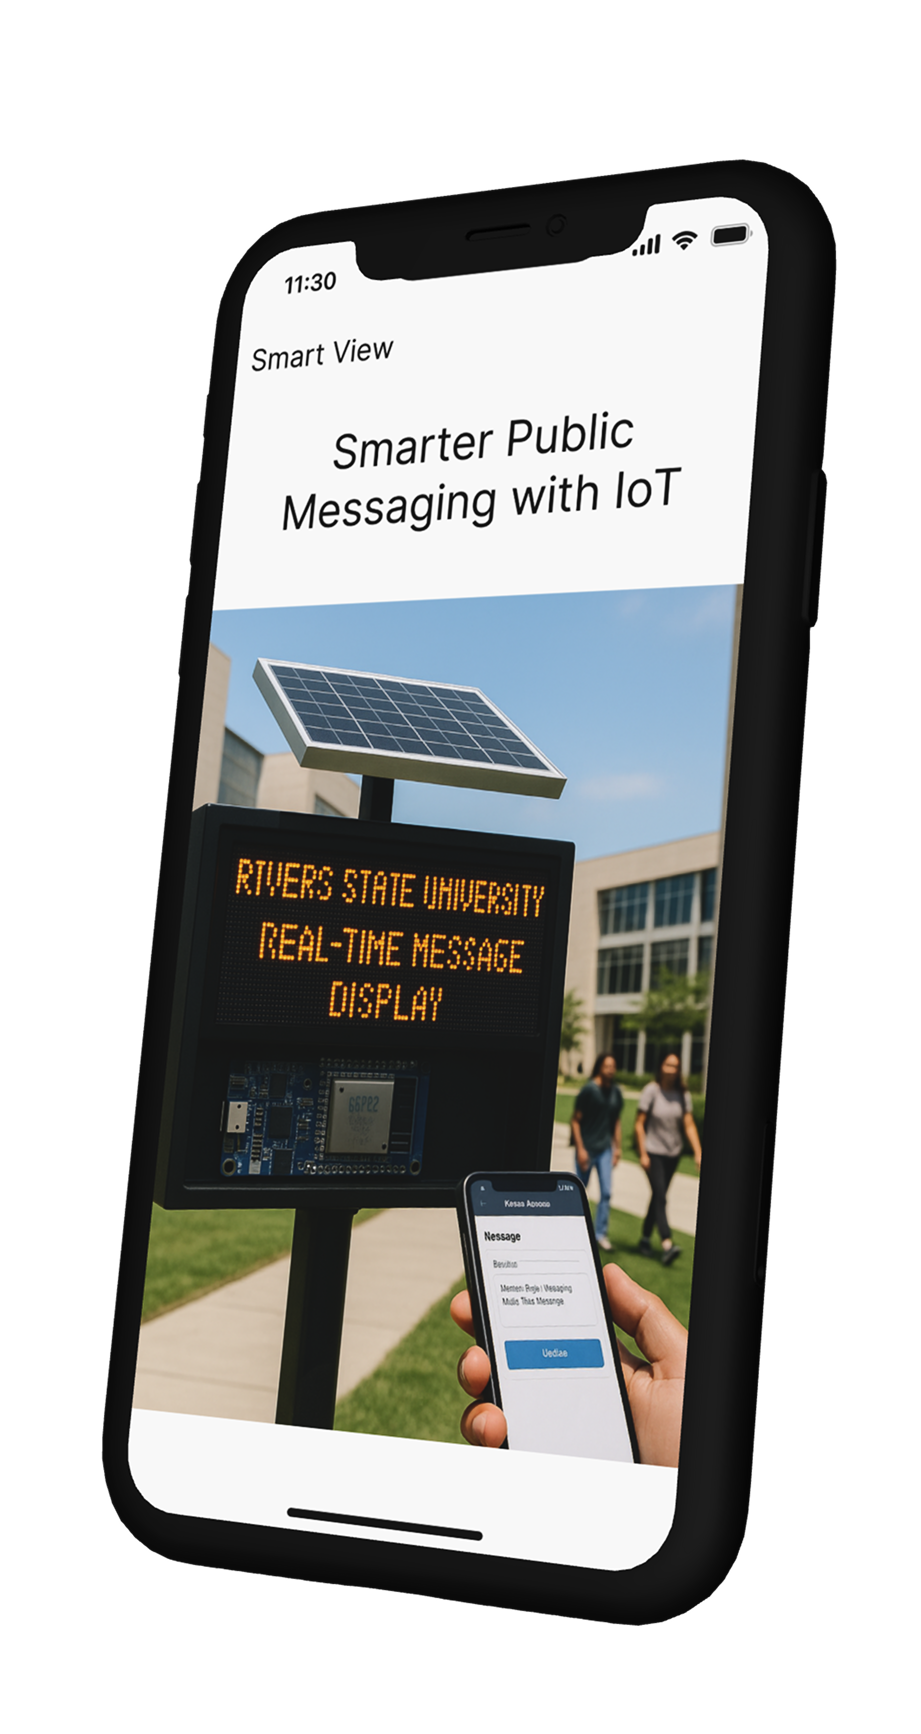
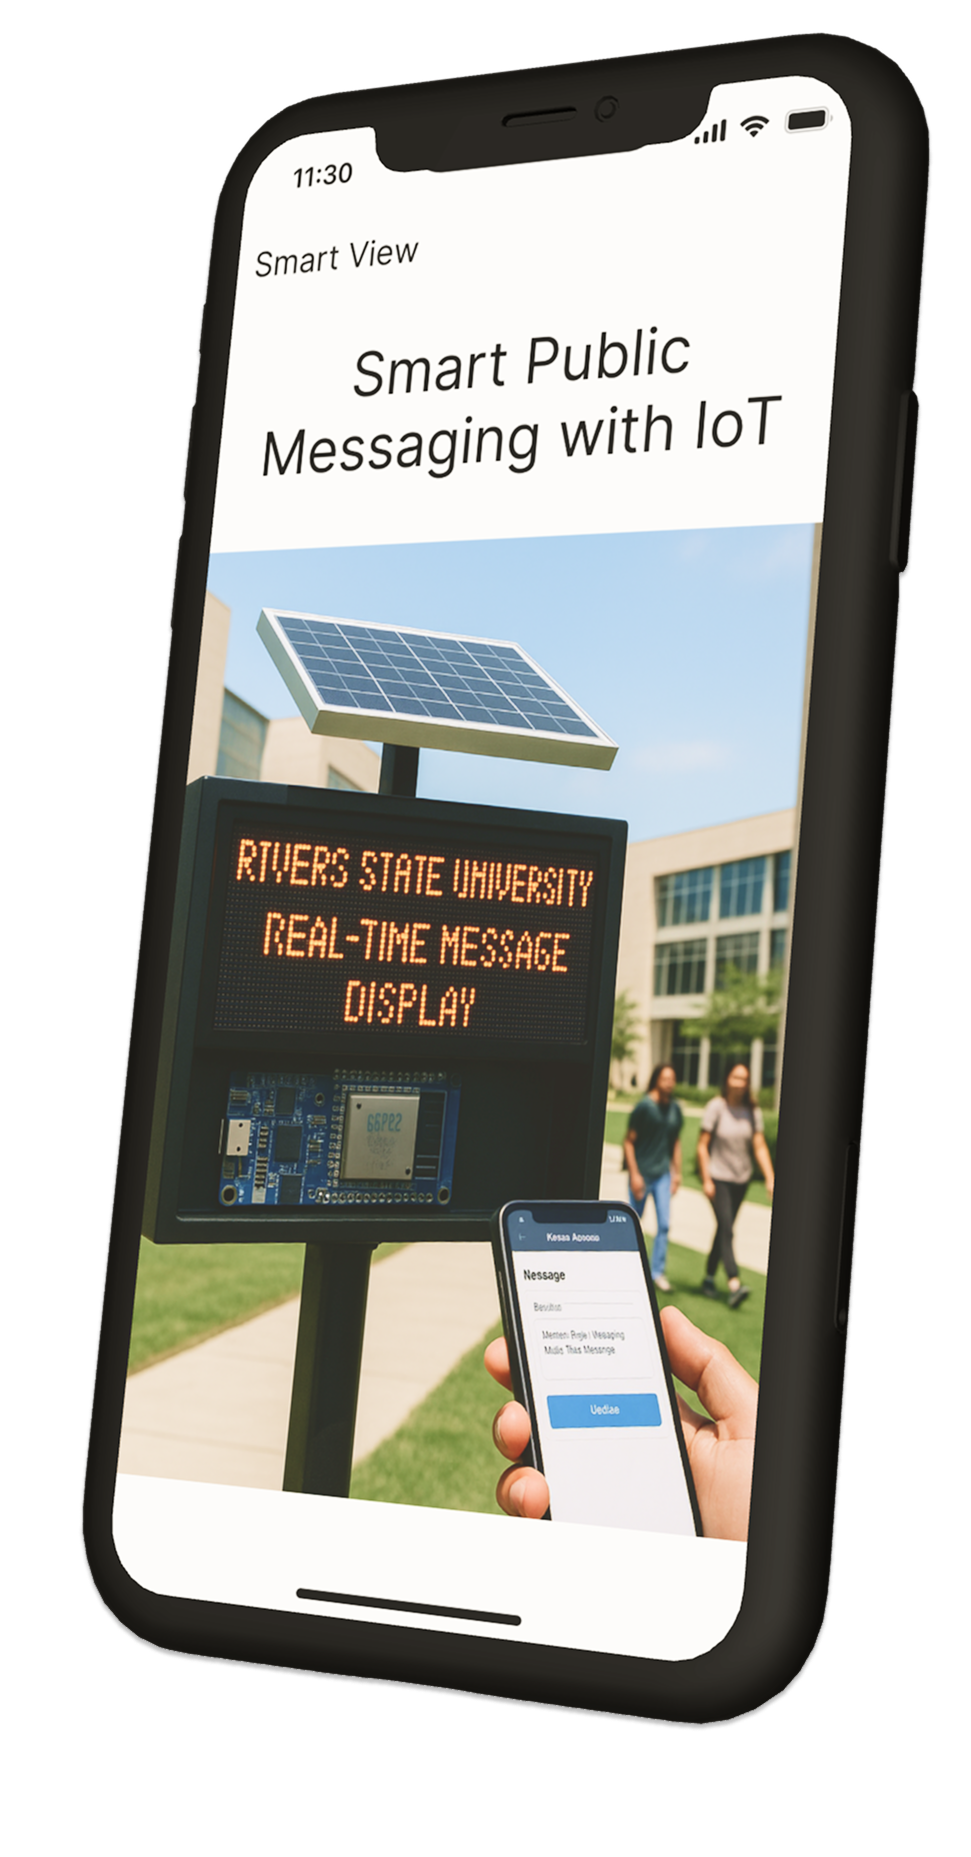
stating

diff --git a/src/pages/Home.jsx b/src/pages/Home.jsx
@@ -13,33 +13,26 @@ export default function IoTNoticeBoardLanding() {
             <main className="">
                 {/* Hero Section */}
                 <div className="bg-[url('/Rectangle.png')] bg-no-repeat lg:bg-right-top">
-                    <section className="w-full lg:-h-screen  py-32 bg-gray-600/70 inset-0">
-                    <div className="max-w-7xl mx-auto flex flex-col md:flex-row items-center justify-between px-6 md:px-10">
-
-                            <div className="w-full md:w-6/12 flex justify-center items-center flex-col pt-10 md:pt-0 md:order-1 text-white">
-                                <h1 className="text-4xl md:text-5xl font-bold mb-6 md:hidden leading-tight text-center md:text-start">Smarter Public Messaging with IoT</h1>
-                                <p className="text-base md:text-lg mb-8 md:hidden text-center">
-                                A solar-powered, remotely managed digital notice board for universities and public spaces.
-                            </p>
-
-                        </div>
+                    <section className="w-full lg:-h-screen  py-32 bg-gradient-to-r  from-gray-600/90 md:to-transparent to-gray-800/50 inset-0">
+                        <div className="max-w-7xl mx-auto flex flex-col md:flex-row items-center justify-between px-6 md:px-10">
 
 
 
-                            <div className="max-w-xl mb-10 md:mb-0 w-full mt-10 md:mt-0">
-                                <h1 className="text-4xl md:text-5xl font-bold mb-6 text-white  hidden md:block">Smart Public Messaging with IoT</h1>
-                                <p className="text-base md:text-lg mb-8 text-gray-300  hidden md:block  ">
-                                A solar-powered, remotely managed digital notice board for universities and public spaces.
-                            </p>
-                                <div className="flex flex-col sm:flex-row gap-4 w-full">
-                                <button className="bg-blue-600 text-white px-6 py-3 rounded-lg">Request Demo</button>
+
+                            <div className="max-w-xl mb-10 md:mb-0 w-full md:mt-0">
+                                <h1 className="text-5xl md:text-6xl font-bold mb-6 text-white text-center md:text-start leading-16">Smart Public Messaging with IoT</h1>
+                                <p className="text-base md:text-lg mb-8 text-white text-shadow-2xs  text-center md:text-start ">
+                                    A solar-powered, remotely managed digital notice board for universities and public spaces.
+                                </p>
+                                <div className="flex flex-col sm:flex-row gap-4 w-full mt-8">
+                                    <button className="bg-blue-600 text-white px-6 py-3 rounded-lg">Request Demo</button>
                                     <button className="border border-black px-6 py-3 rounded-lg">See It Live</button>
+                                </div>
                             </div>
+
                         </div>
 
-                    </div>
-
-                </section>
+                    </section>
 
                 </div>
                 {/* Features Section */}
@@ -116,8 +109,9 @@ export default function IoTNoticeBoardLanding() {
                 </section>
 
                 {/* Call to Action */}
-                <section id="contact" className="px-6 md:px-10 py-20 bg-yellow-100 text-center">
-                    <h2 className="text-3xl font-semibold mb-6">Ready to Modernize Your Notice Board?</h2>
+                <section id="contact" className="px-6 md:px-10 py-24 bg-yellow-100 text-center relative overflow-y-hidden">
+                    <img src="/Rectangle.png" className="md:w-3/12 lg:absolute right-0 -top-0" />
+                    <h2 className="text-3xl font-semibold mb-6 z-30">Ready to Modernize Your Notice Board?</h2>
                     <p className="mb-8">Experience the future of public communication with our smart display solution.</p>
                     <div className="flex flex-col sm:flex-row justify-center gap-4">
                         <button className="bg-blue-600 text-white px-6 py-3 rounded-lg">Request a Demo</button>
